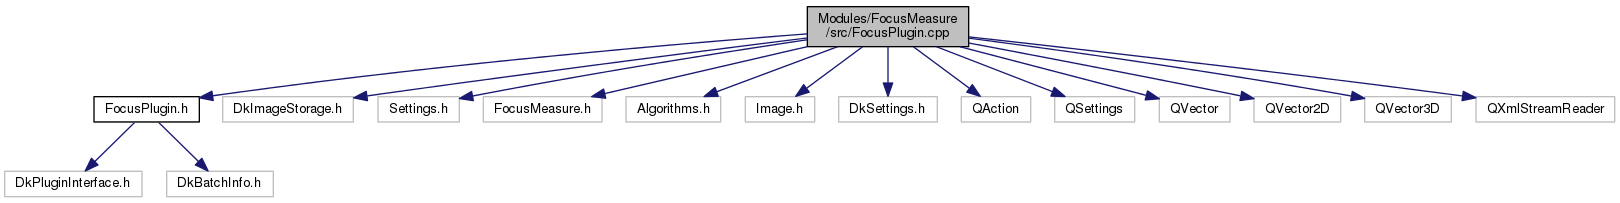
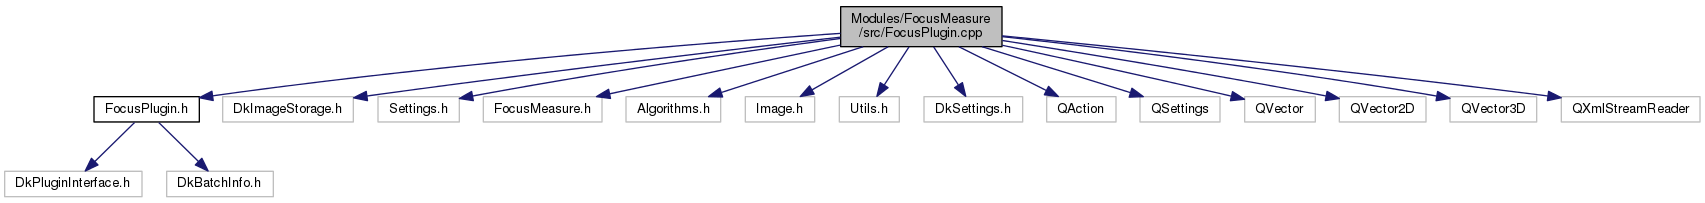
Automated documentation build for changeset 729dcc2aadf412f2b0900f744ceb6ad59363c704.

diff --git a/html/_focus_plugin_8h_source.html b/html/_focus_plugin_8h_source.html
@@ -207,28 +207,28 @@ $(document).ready(function(){initNavTree('_focus_plugin_8h_source.html','');});
 <div class="line"><a name="l00101"></a><span class="lineno">  101</span>&#160;};</div>
 <div class="ttc" id="classrdm_1_1_focus_plugin_html_a60ae25f2d5d78fc6eb75550816dd36ada73f2cf262cb68b1de4f40cbe499a1e61"><div class="ttname"><a href="classrdm_1_1_focus_plugin.html#a60ae25f2d5d78fc6eb75550816dd36ada73f2cf262cb68b1de4f40cbe499a1e61">rdm::FocusPlugin::id_fmRelArea</a></div><div class="ttdef"><b>Definition:</b> FocusPlugin.h:88</div></div>
 <div class="ttc" id="classrdm_1_1_focus_info_html"><div class="ttname"><a href="classrdm_1_1_focus_info.html">rdm::FocusInfo</a></div><div class="ttdef"><b>Definition:</b> FocusPlugin.h:48</div></div>
-<div class="ttc" id="classrdm_1_1_focus_plugin_html_abce1828bdb2430b515c9e030b1248512"><div class="ttname"><a href="classrdm_1_1_focus_plugin.html#abce1828bdb2430b515c9e030b1248512">rdm::FocusPlugin::FocusPlugin</a></div><div class="ttdeci">FocusPlugin(QObject *parent=0)</div><div class="ttdef"><b>Definition:</b> FocusPlugin.cpp:61</div></div>
-<div class="ttc" id="classrdm_1_1_focus_plugin_html_af964c6226c5c2610c49a84d1d2787b6a"><div class="ttname"><a href="classrdm_1_1_focus_plugin.html#af964c6226c5c2610c49a84d1d2787b6a">rdm::FocusPlugin::image</a></div><div class="ttdeci">QImage image() const override</div><div class="ttdef"><b>Definition:</b> FocusPlugin.cpp:117</div></div>
+<div class="ttc" id="classrdm_1_1_focus_plugin_html_abce1828bdb2430b515c9e030b1248512"><div class="ttname"><a href="classrdm_1_1_focus_plugin.html#abce1828bdb2430b515c9e030b1248512">rdm::FocusPlugin::FocusPlugin</a></div><div class="ttdeci">FocusPlugin(QObject *parent=0)</div><div class="ttdef"><b>Definition:</b> FocusPlugin.cpp:62</div></div>
+<div class="ttc" id="classrdm_1_1_focus_plugin_html_af964c6226c5c2610c49a84d1d2787b6a"><div class="ttname"><a href="classrdm_1_1_focus_plugin.html#af964c6226c5c2610c49a84d1d2787b6a">rdm::FocusPlugin::image</a></div><div class="ttdeci">QImage image() const override</div><div class="ttdef"><b>Definition:</b> FocusPlugin.cpp:118</div></div>
 <div class="ttc" id="classrdm_1_1_focus_plugin_html"><div class="ttname"><a href="classrdm_1_1_focus_plugin.html">rdm::FocusPlugin</a></div><div class="ttdef"><b>Definition:</b> FocusPlugin.h:61</div></div>
 <div class="ttc" id="classrdm_1_1_focus_plugin_html_a60ae25f2d5d78fc6eb75550816dd36ada82daf9fb3fb26f9e359f3f1dd08ed84c"><div class="ttname"><a href="classrdm_1_1_focus_plugin.html#a60ae25f2d5d78fc6eb75550816dd36ada82daf9fb3fb26f9e359f3f1dd08ed84c">rdm::FocusPlugin::id_gtPage</a></div><div class="ttdef"><b>Definition:</b> FocusPlugin.h:85</div></div>
 <div class="ttc" id="classrdm_1_1_focus_plugin_html_a60ae25f2d5d78fc6eb75550816dd36adadbc189d7f9a36984d54aaf4bd417798a"><div class="ttname"><a href="classrdm_1_1_focus_plugin.html#a60ae25f2d5d78fc6eb75550816dd36adadbc189d7f9a36984d54aaf4bd417798a">rdm::FocusPlugin::id_fmRel</a></div><div class="ttdef"><b>Definition:</b> FocusPlugin.h:87</div></div>
 <div class="ttc" id="classrdm_1_1_focus_plugin_html_aa7202ec27a052ceec0b23ac66c6d7e76"><div class="ttname"><a href="classrdm_1_1_focus_plugin.html#aa7202ec27a052ceec0b23ac66c6d7e76">rdm::FocusPlugin::mMenuNames</a></div><div class="ttdeci">QStringList mMenuNames</div><div class="ttdef"><b>Definition:</b> FocusPlugin.h:98</div></div>
 <div class="ttc" id="classrdm_1_1_focus_plugin_html_ad26f467708a3cd1da8e22f132f8f11f9"><div class="ttname"><a href="classrdm_1_1_focus_plugin.html#ad26f467708a3cd1da8e22f132f8f11f9">rdm::FocusPlugin::mRunIDs</a></div><div class="ttdeci">QStringList mRunIDs</div><div class="ttdef"><b>Definition:</b> FocusPlugin.h:97</div></div>
 <div class="ttc" id="classrdm_1_1_focus_plugin_html_a60ae25f2d5d78fc6eb75550816dd36adaa87ad496bfd4d7eba496278558ee07ea"><div class="ttname"><a href="classrdm_1_1_focus_plugin.html#a60ae25f2d5d78fc6eb75550816dd36adaa87ad496bfd4d7eba496278558ee07ea">rdm::FocusPlugin::id_fmGrad</a></div><div class="ttdef"><b>Definition:</b> FocusPlugin.h:86</div></div>
-<div class="ttc" id="classrdm_1_1_focus_plugin_html_a6434af302fcd66eb265b7d2e9f4f4b55"><div class="ttname"><a href="classrdm_1_1_focus_plugin.html#a6434af302fcd66eb265b7d2e9f4f4b55">rdm::FocusPlugin::postLoadPlugin</a></div><div class="ttdeci">void postLoadPlugin(const QVector&lt; QSharedPointer&lt; nmc::DkBatchInfo &gt; &gt; &amp;batchInfo) const override</div><div class="ttdef"><b>Definition:</b> FocusPlugin.cpp:556</div></div>
-<div class="ttc" id="classrdm_1_1_focus_plugin_html_ab7e8c6d6ef8caa96503d927dd35fdd72"><div class="ttname"><a href="classrdm_1_1_focus_plugin.html#ab7e8c6d6ef8caa96503d927dd35fdd72">rdm::FocusPlugin::createActions</a></div><div class="ttdeci">QList&lt; QAction * &gt; createActions(QWidget *parent) override</div><div class="ttdef"><b>Definition:</b> FocusPlugin.cpp:122</div></div>
-<div class="ttc" id="classrdm_1_1_focus_info_html_a2379329a802e9075c064f7b3c196d427"><div class="ttname"><a href="classrdm_1_1_focus_info.html#a2379329a802e9075c064f7b3c196d427">rdm::FocusInfo::FocusInfo</a></div><div class="ttdeci">FocusInfo(const QString &amp;id=QString(), const QString &amp;filePath=QString())</div><div class="ttdef"><b>Definition:</b> FocusPlugin.cpp:575</div></div>
-<div class="ttc" id="classrdm_1_1_focus_plugin_html_ad7a26af14fb05404bc7d45e6798351ca"><div class="ttname"><a href="classrdm_1_1_focus_plugin.html#ad7a26af14fb05404bc7d45e6798351ca">rdm::FocusPlugin::id</a></div><div class="ttdeci">QString id() const override</div><div class="ttdef"><b>Definition:</b> FocusPlugin.cpp:108</div></div>
-<div class="ttc" id="classrdm_1_1_focus_info_html_acae102a2ae09313539942f9310a93862"><div class="ttname"><a href="classrdm_1_1_focus_info.html#acae102a2ae09313539942f9310a93862">rdm::FocusInfo::setProperty</a></div><div class="ttdeci">void setProperty(const QString &amp;p)</div><div class="ttdef"><b>Definition:</b> FocusPlugin.cpp:578</div></div>
-<div class="ttc" id="classrdm_1_1_focus_plugin_html_afdc48ae4a0c5261f0cc429df8fac7aa8"><div class="ttname"><a href="classrdm_1_1_focus_plugin.html#afdc48ae4a0c5261f0cc429df8fac7aa8">rdm::FocusPlugin::preLoadPlugin</a></div><div class="ttdeci">void preLoadPlugin() const override</div><div class="ttdef"><b>Definition:</b> FocusPlugin.cpp:551</div></div>
-<div class="ttc" id="classrdm_1_1_focus_info_html_a9db1c4e1c17e778913d52bbf7dae2c3c"><div class="ttname"><a href="classrdm_1_1_focus_info.html#a9db1c4e1c17e778913d52bbf7dae2c3c">rdm::FocusInfo::property</a></div><div class="ttdeci">QString property() const </div><div class="ttdef"><b>Definition:</b> FocusPlugin.cpp:582</div></div>
+<div class="ttc" id="classrdm_1_1_focus_plugin_html_a6434af302fcd66eb265b7d2e9f4f4b55"><div class="ttname"><a href="classrdm_1_1_focus_plugin.html#a6434af302fcd66eb265b7d2e9f4f4b55">rdm::FocusPlugin::postLoadPlugin</a></div><div class="ttdeci">void postLoadPlugin(const QVector&lt; QSharedPointer&lt; nmc::DkBatchInfo &gt; &gt; &amp;batchInfo) const override</div><div class="ttdef"><b>Definition:</b> FocusPlugin.cpp:580</div></div>
+<div class="ttc" id="classrdm_1_1_focus_plugin_html_ab7e8c6d6ef8caa96503d927dd35fdd72"><div class="ttname"><a href="classrdm_1_1_focus_plugin.html#ab7e8c6d6ef8caa96503d927dd35fdd72">rdm::FocusPlugin::createActions</a></div><div class="ttdeci">QList&lt; QAction * &gt; createActions(QWidget *parent) override</div><div class="ttdef"><b>Definition:</b> FocusPlugin.cpp:123</div></div>
+<div class="ttc" id="classrdm_1_1_focus_info_html_a2379329a802e9075c064f7b3c196d427"><div class="ttname"><a href="classrdm_1_1_focus_info.html#a2379329a802e9075c064f7b3c196d427">rdm::FocusInfo::FocusInfo</a></div><div class="ttdeci">FocusInfo(const QString &amp;id=QString(), const QString &amp;filePath=QString())</div><div class="ttdef"><b>Definition:</b> FocusPlugin.cpp:599</div></div>
+<div class="ttc" id="classrdm_1_1_focus_plugin_html_ad7a26af14fb05404bc7d45e6798351ca"><div class="ttname"><a href="classrdm_1_1_focus_plugin.html#ad7a26af14fb05404bc7d45e6798351ca">rdm::FocusPlugin::id</a></div><div class="ttdeci">QString id() const override</div><div class="ttdef"><b>Definition:</b> FocusPlugin.cpp:109</div></div>
+<div class="ttc" id="classrdm_1_1_focus_info_html_acae102a2ae09313539942f9310a93862"><div class="ttname"><a href="classrdm_1_1_focus_info.html#acae102a2ae09313539942f9310a93862">rdm::FocusInfo::setProperty</a></div><div class="ttdeci">void setProperty(const QString &amp;p)</div><div class="ttdef"><b>Definition:</b> FocusPlugin.cpp:602</div></div>
+<div class="ttc" id="classrdm_1_1_focus_plugin_html_afdc48ae4a0c5261f0cc429df8fac7aa8"><div class="ttname"><a href="classrdm_1_1_focus_plugin.html#afdc48ae4a0c5261f0cc429df8fac7aa8">rdm::FocusPlugin::preLoadPlugin</a></div><div class="ttdeci">void preLoadPlugin() const override</div><div class="ttdef"><b>Definition:</b> FocusPlugin.cpp:575</div></div>
+<div class="ttc" id="classrdm_1_1_focus_info_html_a9db1c4e1c17e778913d52bbf7dae2c3c"><div class="ttname"><a href="classrdm_1_1_focus_info.html#a9db1c4e1c17e778913d52bbf7dae2c3c">rdm::FocusInfo::property</a></div><div class="ttdeci">QString property() const </div><div class="ttdef"><b>Definition:</b> FocusPlugin.cpp:606</div></div>
 <div class="ttc" id="classrdm_1_1_focus_plugin_html_a60ae25f2d5d78fc6eb75550816dd36ada06b66b31a6cf7863041fc45138ba3685"><div class="ttname"><a href="classrdm_1_1_focus_plugin.html#a60ae25f2d5d78fc6eb75550816dd36ada06b66b31a6cf7863041fc45138ba3685">rdm::FocusPlugin::id_contMeasure</a></div><div class="ttdef"><b>Definition:</b> FocusPlugin.h:89</div></div>
 <div class="ttc" id="classrdm_1_1_focus_plugin_html_a60ae25f2d5d78fc6eb75550816dd36adae03315823a86ba900528c445a4af86b1"><div class="ttname"><a href="classrdm_1_1_focus_plugin.html#a60ae25f2d5d78fc6eb75550816dd36adae03315823a86ba900528c445a4af86b1">rdm::FocusPlugin::id_end</a></div><div class="ttdef"><b>Definition:</b> FocusPlugin.h:92</div></div>
-<div class="ttc" id="classrdm_1_1_focus_plugin_html_a3dfd0ba3e957df78ac5def239822220e"><div class="ttname"><a href="classrdm_1_1_focus_plugin.html#a3dfd0ba3e957df78ac5def239822220e">rdm::FocusPlugin::~FocusPlugin</a></div><div class="ttdeci">~FocusPlugin()</div><div class="ttdef"><b>Definition:</b> FocusPlugin.cpp:99</div></div>
+<div class="ttc" id="classrdm_1_1_focus_plugin_html_a3dfd0ba3e957df78ac5def239822220e"><div class="ttname"><a href="classrdm_1_1_focus_plugin.html#a3dfd0ba3e957df78ac5def239822220e">rdm::FocusPlugin::~FocusPlugin</a></div><div class="ttdeci">~FocusPlugin()</div><div class="ttdef"><b>Definition:</b> FocusPlugin.cpp:100</div></div>
 <div class="ttc" id="classrdm_1_1_focus_plugin_html_ad2c0e0cba38e8ed77ecff2be5f82c126"><div class="ttname"><a href="classrdm_1_1_focus_plugin.html#ad2c0e0cba38e8ed77ecff2be5f82c126">rdm::FocusPlugin::mMenuStatusTips</a></div><div class="ttdeci">QStringList mMenuStatusTips</div><div class="ttdef"><b>Definition:</b> FocusPlugin.h:99</div></div>
-<div class="ttc" id="classrdm_1_1_focus_plugin_html_ac468a1b7ebab454c90bd6531d9ea55e6"><div class="ttname"><a href="classrdm_1_1_focus_plugin.html#ac468a1b7ebab454c90bd6531d9ea55e6">rdm::FocusPlugin::pluginActions</a></div><div class="ttdeci">QList&lt; QAction * &gt; pluginActions() const override</div><div class="ttdef"><b>Definition:</b> FocusPlugin.cpp:140</div></div>
+<div class="ttc" id="classrdm_1_1_focus_plugin_html_ac468a1b7ebab454c90bd6531d9ea55e6"><div class="ttname"><a href="classrdm_1_1_focus_plugin.html#ac468a1b7ebab454c90bd6531d9ea55e6">rdm::FocusPlugin::pluginActions</a></div><div class="ttdeci">QList&lt; QAction * &gt; pluginActions() const override</div><div class="ttdef"><b>Definition:</b> FocusPlugin.cpp:141</div></div>
 <div class="ttc" id="classrdm_1_1_focus_plugin_html_a7f1d876ca6e1523125c89955e289d20a"><div class="ttname"><a href="classrdm_1_1_focus_plugin.html#a7f1d876ca6e1523125c89955e289d20a">rdm::FocusPlugin::mActions</a></div><div class="ttdeci">QList&lt; QAction * &gt; mActions</div><div class="ttdef"><b>Definition:</b> FocusPlugin.h:96</div></div>
-<div class="ttc" id="classrdm_1_1_focus_plugin_html_a88a6c77a116fcacd5a105b3cc549d7c8"><div class="ttname"><a href="classrdm_1_1_focus_plugin.html#a88a6c77a116fcacd5a105b3cc549d7c8">rdm::FocusPlugin::runPlugin</a></div><div class="ttdeci">QSharedPointer&lt; nmc::DkImageContainer &gt; runPlugin(const QString &amp;runID, QSharedPointer&lt; nmc::DkImageContainer &gt; imgC, const nmc::DkSaveInfo &amp;saveInfo, QSharedPointer&lt; nmc::DkBatchInfo &gt; &amp;info) const override</div><div class="ttdef"><b>Definition:</b> FocusPlugin.cpp:149</div></div>
+<div class="ttc" id="classrdm_1_1_focus_plugin_html_a88a6c77a116fcacd5a105b3cc549d7c8"><div class="ttname"><a href="classrdm_1_1_focus_plugin.html#a88a6c77a116fcacd5a105b3cc549d7c8">rdm::FocusPlugin::runPlugin</a></div><div class="ttdeci">QSharedPointer&lt; nmc::DkImageContainer &gt; runPlugin(const QString &amp;runID, QSharedPointer&lt; nmc::DkImageContainer &gt; imgC, const nmc::DkSaveInfo &amp;saveInfo, QSharedPointer&lt; nmc::DkBatchInfo &gt; &amp;info) const override</div><div class="ttdef"><b>Definition:</b> FocusPlugin.cpp:150</div></div>
 </div><!-- fragment --></div><!-- contents -->
 </div><!-- doc-content -->
 <!-- start footer part -->

diff --git a/html/_focus_plugin_8cpp.html b/html/_focus_plugin_8cpp.html
@@ -112,6 +112,7 @@ $(document).ready(function(){initNavTree('_focus_plugin_8cpp.html','');});
 <code>#include &quot;FocusMeasure.h&quot;</code><br/>
 <code>#include &quot;Algorithms.h&quot;</code><br/>
 <code>#include &quot;Image.h&quot;</code><br/>
+<code>#include &quot;Utils.h&quot;</code><br/>
 <code>#include &quot;DkSettings.h&quot;</code><br/>
 <code>#include &lt;QAction&gt;</code><br/>
 <code>#include &lt;QSettings&gt;</code><br/>
